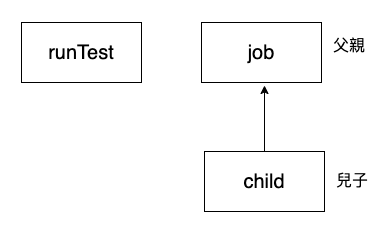
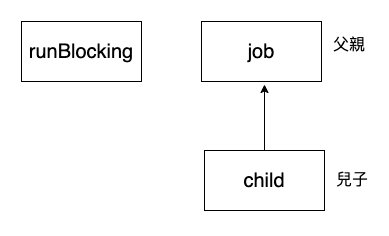
kotlin flow

diff --git a/_pages/kotlin/flow.md b/_pages/kotlin/flow.md
@@ -390,7 +390,7 @@ public fun <T> Flow<T>.launchIn(scope: CoroutineScope): Job = scope.launch {
 }
 {% endhighlight %}
 
-以下程式碼，接收launchIn()的傳回值，並且在2.5秒取消協程。<br>
+以下程式碼，接收launchIn()的傳回值Job，並且在2.5秒取消協程。<br>
 onEach設為1秒發射(emit)一次。<br>
 結果只有接收2筆。<br>
 {% highlight kotlin linenos %}
@@ -417,3 +417,198 @@ event(): 2 time = 1759476639932
 ```
 
 ## Cancel Flow
+flow發射emit有使用ensureActive來確認collect接收方是否已經取消接收。
+### cancel()
+收集資料到i == 3，就cancel flow。
+{% highlight kotlin linenos %}
+  fun testFlow5() = flow<Int> {
+    for (i in 1..5) {
+      delay(1000)
+      emit(i)
+      println("emit = $i")
+    }
+  }
+  @Test
+  fun coroutine18() = runBlocking<Unit> {
+    testFlow5().collect { value ->
+      println(value)
+      // 收集資料到i == 3，就cancel flow。
+      if (value == 3) cancel()
+    }
+  }
+{% endhighlight %}
+```
+1
+emit = 1
+2
+emit = 2
+3
+emit = 3
+
+BlockingCoroutine was cancelled
+```
+### withTimeoutOrNull
+testFlow4()每一秒發射一次，發完1到3需要3秒鐘，但是`withTimeoutOrNull(2500)`代表2.5秒後會被取消協程，所以執行結果只有發射2筆。<br>
+{% highlight kotlin linenos %}
+  fun testFlow4() = flow<Int> {
+    for (i in 1 .. 3) {
+      delay(1000)
+      emit(i)
+      println("emit = $i")
+    }
+  }
+
+  @Test
+  fun coroutine17() = runBlocking<Unit> {
+    withTimeoutOrNull(2500) {
+      testFlow4().collect { value ->
+        println(value)
+      }
+    }
+  }
+{% endhighlight %}
+```
+1
+emit = 1
+2
+emit = 2
+```
+### asFlow cancellable
+asFlow的cancel一定要加上cancellable()，因為asFlow是一次性的發射(emit)，不用cancellable無法使用cancel()
+{% highlight kotlin linenos %}
+  @Test
+  fun coroutine16() = runBlocking<Unit> {
+    (1..5).asFlow().cancellable().collect { value ->
+      println(value)
+      if (value == 3) cancel()
+    }
+  }
+{% endhighlight %}
+```
+1
+2
+3
+
+BlockingCoroutine was cancelled
+kotlinx.coroutines.JobCancellationException: BlockingCoroutine was cancelled; job=nul
+```
+## buffer
+發射的時間比較快，每發射一筆資料要花100 ms，但接收的時間比較慢，每接收一筆要花200ms。<br>
+如何使用buffer讓每一筆資料是同時發射呢？<br>
+
+### flow emit是依序執行
+所謂emit依序執行，就是發射完一個，再發射下一個，以下程式碼計算emit發射的時間，發射5次，總共為500ms 左右。<br>
+但接收端仍是依序接收，接收每一次就暫停200 ms，接收5次就暫停1000 ms。<br>
+總共花費時間約1500 ms。<br>
+{% highlight kotlin linenos %}
+  fun testFlow6() = flow<Int> {
+    for (i in 1..5) {
+      delay(100)
+      emit(i)
+      println("emit = $i")
+    }
+  }
+
+  @Test
+  fun coroutine19() = runBlocking<Unit> {
+    val time = measureTimeMillis {
+      testFlow6().collect { value ->
+        delay(200)
+        println(value)
+      }
+    }
+    println("total emit time = $time ms")
+  }
+{% endhighlight %}
+```
+1
+emit = 1
+2
+emit = 2
+3
+emit = 3
+4
+emit = 4
+5
+emit = 5
+total emit time = 1573 ms
+```
+
+### flow buffer()同時發射
+接收端每200秒接收一次，使用buffer(大小)，會讓emit同時發射，同時發射5筆只會使用100 ms。<br>
+但接收端仍是依序接收，接收每一次就暫停200 ms，接收5次就暫停1000 ms。<br>
+所以總共花費時間約1100 ms。
+{% highlight kotlin linenos %}
+  fun testFlow6() = flow<Int> {
+    for (i in 1..5) {
+      delay(100)
+      emit(i)
+      println("emit = $i")
+    }
+  }
+  @Test
+  fun coroutine20() = runBlocking<Unit> {
+    val time = measureTimeMillis {
+      testFlow6().buffer(50).collect { value ->
+        delay(200)
+        println(value)
+      }
+    }
+    println("total emit time = $time ms")
+  }  
+{% endhighlight %}
+```
+emit = 1
+emit = 2
+1
+emit = 3
+emit = 4
+2
+emit = 5
+3
+4
+5
+total emit time = 1169 ms
+```
+### 與flowOn的區別
+buffer不會改變發射方的Thread，發射跟接收都是在同一個Thread。<br>
+而先前的flowOn()，使發射方可以與接收方同時進行，而不是依序執行，發射方的Thread與接收方的Thread是不同的。<br>
+以下程式執行時間也是約1100 ms，但使用的原理是不同。<br>
+{% highlight kotlin linenos %}
+  fun testFlow6() = flow<Int> {
+    for (i in 1..5) {
+      delay(100)
+      emit(i)
+      println("emit = $i")
+    }
+  }
+  @Test
+  fun coroutine21() = runBlocking<Unit> {
+    val time = measureTimeMillis {
+      testFlow6().flowOn(Dispatchers.Default).collect { value ->
+        delay(200)
+        println(value)
+      }
+    }
+    println("total emit time = $time ms")
+  }
+{% endhighlight %}
+```
+emit = 1
+emit = 2
+1
+emit = 3
+emit = 4
+2
+emit = 5
+3
+4
+5
+total emit time = 1159 ms
+```
+
+## 改變上游
+Flow(流)，分為上游與下游，上游是指發射端emit的部分，下游是指接收端collect的部分。<br>
+
+### transform
+transform可以改變上游，讓發射端，發射多筆。<br>

diff --git a/_pages/kotlin/job.md b/_pages/kotlin/job.md
@@ -3,10 +3,6 @@ title: Job
 date: 2025-09-19
 keywords: kotlin, job
 ---
-Prerequisites:
-
-- [runBlocking runBlocking][1]
-
 中文為工作、任務。<br>
 
 ## Job 生命周期
@@ -185,7 +181,7 @@ coroutineContext.job
 coroutineContext[Job]
 {% endhighlight %}
 
-下圖中，綠色的Job物件為runBlocking{}的傳回值為TestScope，詳細內容請見[runBlocking][1]文章。<br>
+下圖中，綠色的Job物件為runBlocking{}的傳回值為BlockingCoroutine。<br>
 紅色的Job物件為launch{}的傳回值child。<br>
 ![img]({{site.imgurl}}/kotlin/get_job.png)<br>
 
@@ -193,8 +189,8 @@ coroutineContext[Job]
 
 ![img]({{site.imgurl}}/kotlin/job_extend1.png)<br>
 
-而runBlocking傳回的是TestScope。<br>
-child的祖父不是TestScope，都是分開來。<br>
+而runBlocking傳回的是BlockingCoroutine。<br>
+child的祖父不是BlockingCoroutine，都是分開來。<br>
 {% highlight kotlin linenos %}
   fun coroutin11() = runBlocking {
     println("runBlocking = ${coroutineContext[Job]}")
@@ -215,8 +211,8 @@ child的祖父不是TestScope，都是分開來。<br>
   }
 {% endhighlight %}
 ```
-runBlocking = TestScope[test started]
-runBlocking = TestScope[test started]
+runBlocking = "coroutine#1":BlockingCoroutine{Active}@7674b62c
+runBlocking = "coroutine#1":BlockingCoroutine{Active}@7674b62c
 job parent = null
 job = JobImpl{Active}@5e4bd84a
 child parent= JobImpl{Active}@5e4bd84a
@@ -351,12 +347,12 @@ fun coroutin12() = runBlocking {
 }
 {% endhighlight %}
 ```
-outside this = TestScope[test started]
-inner this = "coroutine#3":StandaloneCoroutine{Active}@648c94da
-launch this = "coroutine#3":StandaloneCoroutine{Active}@648c94da
-runBlocking this = TestScope[test started]
+outside this = "coroutine#1":BlockingCoroutine{Active}@662706a7
+inner this = "coroutine#2":StandaloneCoroutine{Active}@488d1cd7
+launch this = "coroutine#2":StandaloneCoroutine{Active}@488d1cd7
+runBlocking this = "coroutine#1":BlockingCoroutine{Active}@662706a7
 launch class = StandaloneCoroutine
-runBlocking class = TestScopeImpl
+runBlocking class = BlockingCoroutine
 ```
 
 [1]: {% link _pages/kotlin/runtest.md %}

diff --git a/_pages/kotlin/scope.md b/_pages/kotlin/scope.md
@@ -34,7 +34,7 @@ fun example2() = runBlocking {
 {% endhighlight %}
 
 ### CoroutineScope
-建立一個獨立CoroutineScope作用域，runBlocking的作用域為TestScope。<br>
+建立一個獨立CoroutineScope作用域，runBlocking的作用域為BlockingCoroutine。<br>
 
 CoroutineScope下面有一個子協程，名字為job1。<br>
 
@@ -58,7 +58,7 @@ fun coroutin07() = runBlocking {
 runBlocking協程與作用域協程，沒有父子關係，所以runBlocking協程執行完畢就結束，<span class="markline">不會等待</span>CoroutineScope下的job1子協程執行完。<br>
 
 #### delay暫停
-增加一個delay(大於1000)，因為CoroutineScope下的子協程執行時為1秒，要讓TestScope(runBlocking)暫停超過1秒，再結束runBlocking協程。<br>
+增加一個delay(大於1000)，因為CoroutineScope下的子協程執行時為1秒，要讓runBlocking暫停超過1秒，再結束runBlocking協程。<br>
 
 delay()參數要大於1000，等到scope執行完畢，runBlocking協程才能結束。<br>
 
@@ -146,7 +146,7 @@ fun nonCoroutineFunction() {
 {% endhighlight %}
 
 ## coroutineScope runBlocking
-coroutineScope雖然名字有Scope，但開頭字母為小寫，不是獨立作用域，父親是runBlocking，runBlocking是TestScope的作用域。<br>
+coroutineScope雖然名字有Scope，但開頭字母為小寫，不是獨立作用域，父親是runBlocking，runBlocking是BlockingCoroutine的作用域。<br>
 
 ![img]({{site.imgurl}}/kotlin/scope_extend2.png)<br>
 
